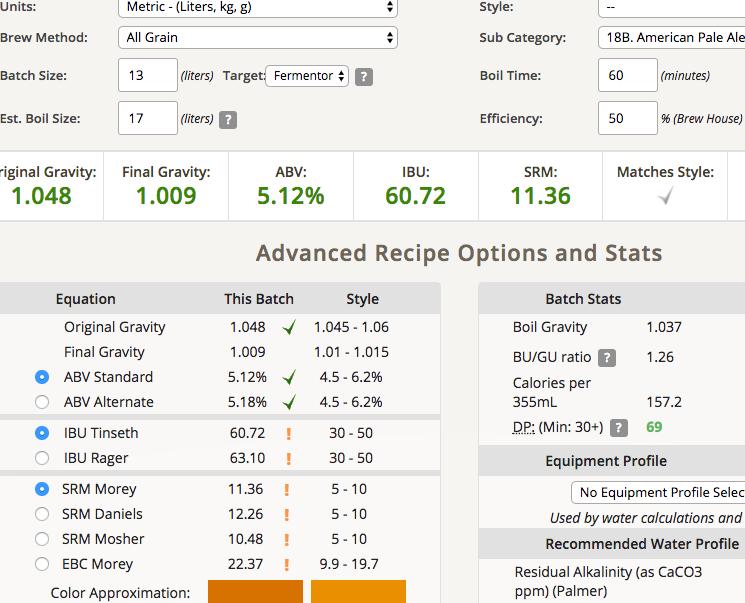
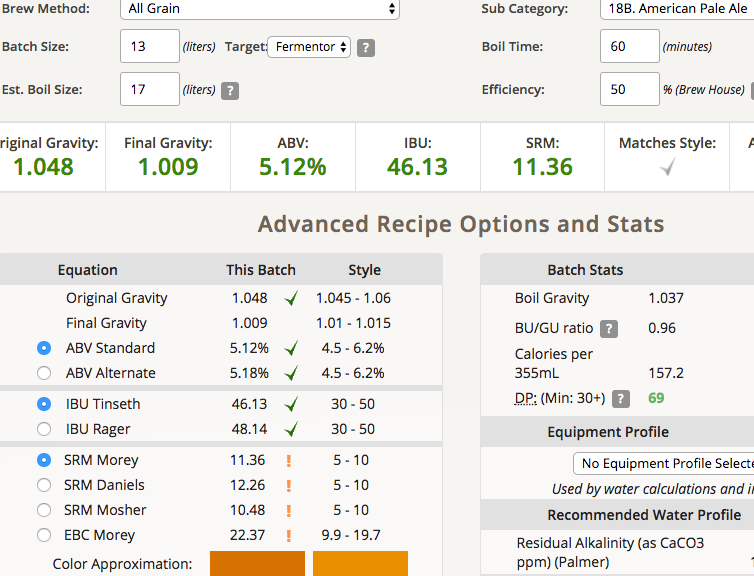
new test

Changed region(s): [[0.0, 0.375, 1.0, 1.0], [0.0, 0.0, 1.0, 0.3438]]

diff --git a/brewingHistory/170731-ethen-rayapa.md b/brewingHistory/170731-ethen-rayapa.md
@@ -20,7 +20,7 @@ Pico Z with full-auto plant chiller
 
 **酒花**
 
-* Magnum 14.8% 15g 60min
+* Magnum 11.8% 15g 60min
 * Centennial 9.3% 7g+cascade 3g 5min
 * Centennial 9.3% 20g 2min （pico無法熱泡）
 * Centennial 9.3% 30g 冷泡
@@ -35,7 +35,7 @@ Pico Z with full-auto plant chiller
 
 蓋子250g 頭30g 
 
-12.9L OG1.048 FG1.009 ABV5.12 IBU61.02 SRM11.36 50%
+12.9L OG1.048 FG1.009 ABV5.12 IBU46.13 SRM11.36 50%
 
 苦味比預期高很多啊.... 需要調整一下
 
